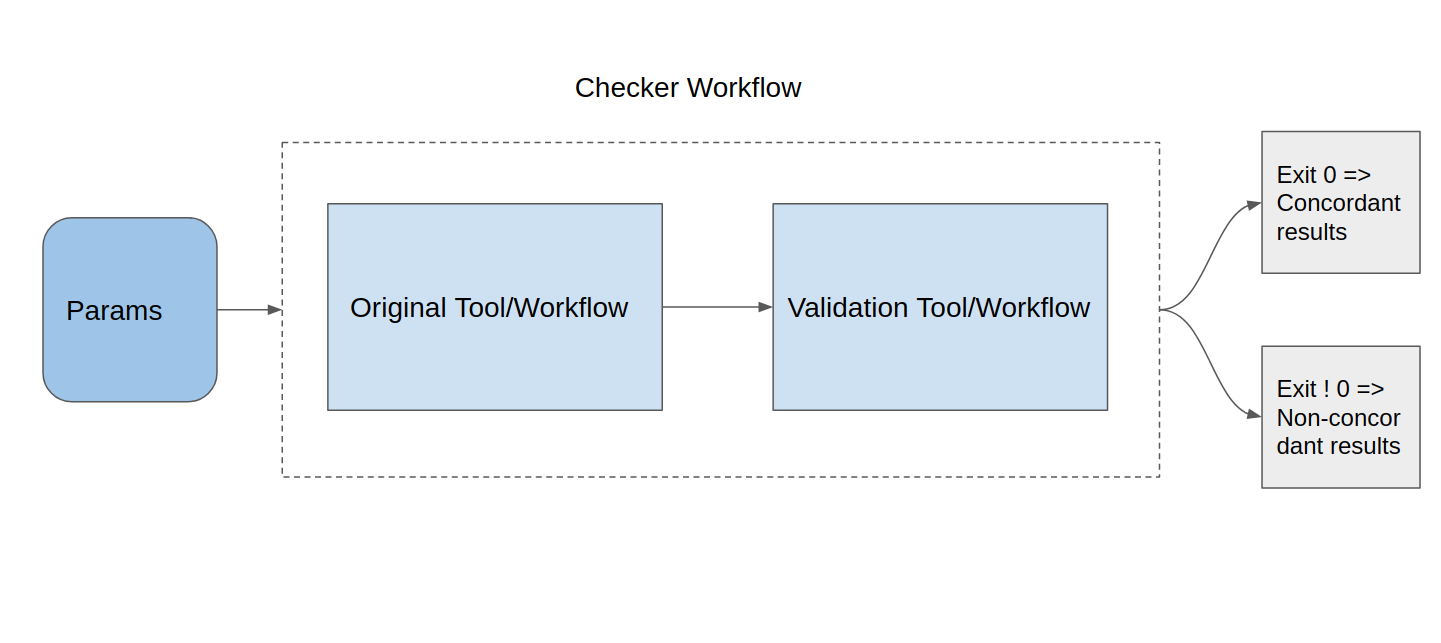
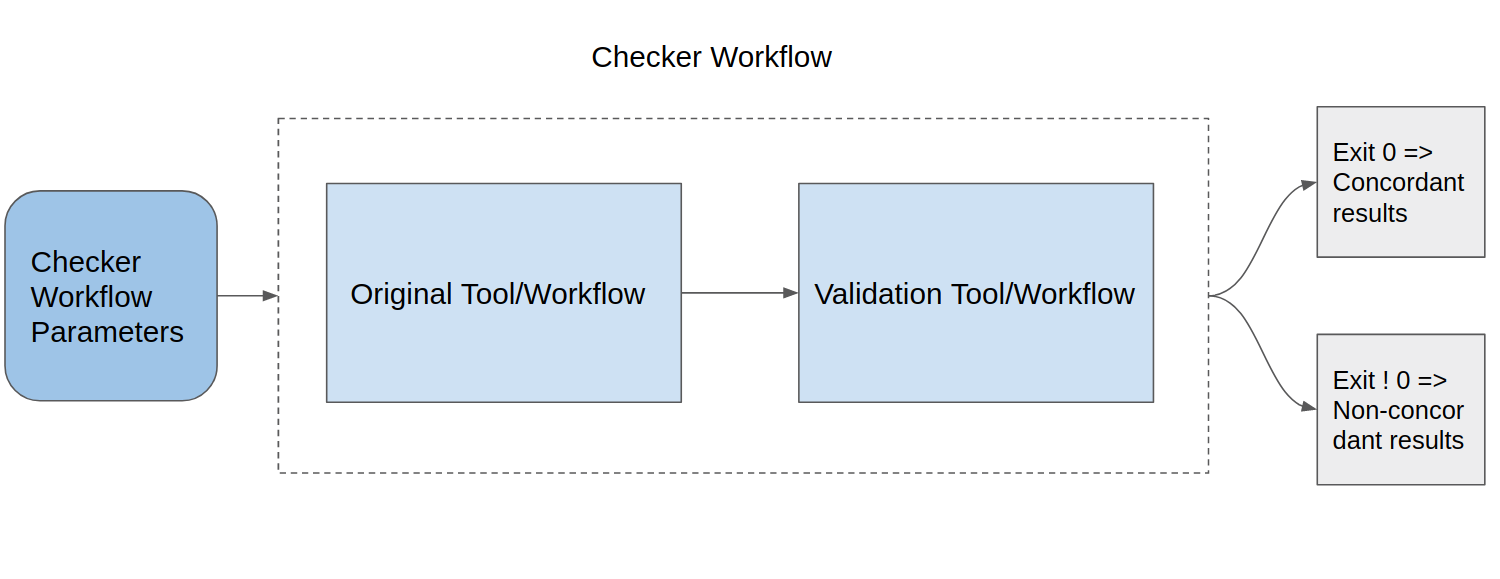
changes to checker workflow tutorial

diff --git a/_docs/checker-workflows.md b/_docs/checker-workflows.md
@@ -30,11 +30,9 @@ The relevant tools and workflows can be found in the following Git repository:
 [https://github.com/dockstore-testing/md5sum-checker](https://github.com/dockstore-testing/md5sum-checker)
 
 #### Quick overview of structure
-One point of confusion is that a checker workflow contains a validation tool/workflow. The validation tool/workflow is what does the bulk of the validation. It is responsible for ensuring that the results of the original entry match expected results. The checker workflow refers to the workflow that connects the original entry with the validation tool/workflow, so that it can be run as one workflow.
+Like regular workflows, a checker workflow can describe an example input from an input parameter file. The checker workflow can either use the input parameter file for the original entry, or it can define its own. The second case is useful when the validation tool/workflow has some extra parameters not required by the original entry.
 
-Also like regular workflows, a checker workflow can take input from an input parameter file. The checker workflow can either use the input parameter file for the original entry, or it can define its own. The second case is useful when the validation tool/workflow has some extra parameters not required by the original entry.
-
-For our example the second case is used. The parent tool has the input parameter file [/md5sum-input-cwl.json](https://github.com/dockstore-testing/md5sum-checker/blob/master/md5sum/md5sum-input-cwl.json)
+For our example the second case is used. The original tool has the input parameter file [/md5sum-input-cwl.json](https://github.com/dockstore-testing/md5sum-checker/blob/master/md5sum/md5sum-input-cwl.json). This is the file that runs a particular example with the original tool.
 ```
 {
   "input_file": {
@@ -44,7 +42,7 @@ For our example the second case is used. The parent tool has the input parameter
 }
 ```
 
-The checker workflow has the input parameter file [/checker-input-cwl.json](https://github.com/dockstore-testing/md5sum-checker/blob/master/checker-input-cwl.json)
+The checker workflow has the input parameter file [/checker-input-cwl.json](https://github.com/dockstore-testing/md5sum-checker/blob/master/checker-input-cwl.json). This is the file that we would pass to the checker workflow to ensure that our original tool is working properly when we run it with the input file mentioned above. Again, in some cases this file could be the same as the one for the original tool parameter file, though not in this case.
 ```
 {
   "input_file": {
@@ -55,7 +53,10 @@ The checker workflow has the input parameter file [/checker-input-cwl.json](http
 }
 ```
 
-Notice that the checker parameter file has the same content as the parent parameter file, in addition to having a checker specific parameter.
+Notice that the checker parameter file has the same content as the original parameter file, in addition to having a checker specific parameter.
+
+One point of confusion is that a checker workflow contains a validation tool/workflow. The validation tool/workflow is what does the bulk of the validation. It is responsible for ensuring that the results of the original entry match expected results. The checker workflow refers to the workflow that connects the original entry with the validation tool/workflow, so that it can be run as one workflow.
+
 
 #### Output of checker workflow
 To ensure that checking a checker workflow's output can be automated, it is important that the checker workflow produce consistent exit codes. We require using an exit code of 0 for success and an exit code of not 0 for failures.
@@ -65,7 +66,7 @@ We also recommend producing the following two output files containing the stdout
 * log.stderr
 
 #### Note on CLI usage
-For existing dockstore commands (tools and workflows), entry refers to the path of a specific tool or workflow. For checker workflows, entry refers to the path of the parent entry. It does not refer to the checker workflow's path.
+For existing dockstore commands (tools and workflows), entry refers to the path of a specific tool or workflow. For checker workflows, entry refers to the path of the original entry. It does not refer to the checker workflow's path.
 
 ## Adding a checker workflow
 Currently, you can add checker workflows to existing tools and workflows.
@@ -97,7 +98,7 @@ Using our example checker workflow, we would run the following:
 This will add the checker workflow defined by [/checker-workflow-wrapping-tool.cwl](https://github.com/dockstore-testing/md5sum-checker/blob/master/checker-workflow-wrapping-tool.cwl) to the entry `quay.io/agduncan94/my-md5sum`.
 
 The descriptor type will default to 'cwl' if none is provided.
-The default input parameter path will default to the default input parameter path of the parent entry.
+The default input parameter path will default to the default input parameter path of the original entry.
 
 ## Updating a checker workflow
 
@@ -150,7 +151,7 @@ We also need a local version of the file we are calculating the md5sum for:
 It can be useful to have all relevant files for a checker workflow locally. This can be done with the download feature.
 
 ### From the CLI
-The command for this is very simple. Again note that the entry is for the parent entry, and not the checker workflow.
+The command for this is very simple. Again note that the entry is for the original entry, and not the checker workflow.
 
 `dockstore checker download --entry quay.io/agduncan94/my-md5sum --version master`
 
@@ -158,4 +159,4 @@ This will download the descriptor and any secondary descriptors, maintaining the
 
 ## For Advanced Users
 You can interact with checker workflows using the TRS. See
-[Advanced Features](/docs/publisher-tutorials/advanced-features/) for more information.
+[Checker Workflows and the TRS](/docs/publisher-tutorials/checker-workflow-trs/) for more information.

diff --git a/_docs/advanced-features.md b/_docs/advanced-features.md
@@ -137,68 +137,3 @@ cromwell-version = 30.2
 ```
 
 You can test cromwell by git cloning git@github.com:briandoconnor/dockstore-tool-md5sum.git and using `dockstore tool launch --local-entry Dockstore.wdl --json test.wdl.json`
-
-## TRS With Checker Workflows
-You can interact with checker workflows using the TRS in the same way you interact with regular workflows.
-
-The Swagger UI for the the TRS endpoints can be found [here](https://dockstore.org:8443/static/swagger-ui/index.html#/GA4GH).
-
-For this section we will reference the tool and checker workflow mentioned in the [Checker workflows](/docs/publisher-tutorials/checker-workflows/) tutorial.
-
-### Distinguishing Between an Entry and a Checker Workflow
-We can use the TRS to find all entries on Dockstore, but how do we know which are checker workflows?
-
-Run the following command to retrieve all entries in Dockstore (limit to 1000):
-```
-curl -X GET "https://dockstore.org:8443/api/ga4gh/v2/tools?limit=1000" -H "accept: application/json"
-```
-
-There are two fields to look for in the results. The first is the `has_checker` field, which will tell you wether or not the entry has a checker workflow. If it does have a checker workflow, then the `checker_url` field contains a link to the checker workflow using the TRS. This is how we can determine if an entry has a checker, and also interact with the associated checker.
-
-Once we have the checker URL, we can start to interact with it like a regular workflow.
-
-### Retrieve the checker workflow
-Lets use the TRS to retrieve the checker workflow from the checker workflows tutorial mentioned above. The following command will retrieve the checker workflow object. Note that this is simply using the typical TRS endpoint
-to grab an entry.
-
-```
-curl -X GET "https://dockstore.org:8443/api/ga4gh/v2/tools/%23workflow%2Fgithub.com%2Fdockstore-testing%2Fmd5sum-checker%2F_cwl_checker" -H "accept: application/json"
-```
-
-### Retrieve descriptors
-If we want the primary descriptor for our checker workflow, we can use the following command:
-
-```
-curl -X GET "https://dockstore.org:8443/api/ga4gh/v2/tools/%23workflow%2Fgithub.com%2Fdockstore-testing%2Fmd5sum-checker%2F_cwl_checker/versions/master/CWL/descriptor" -H "accept: application/json"
-```
-
-Note that this command requires a version and descriptor type.
-
-If we want to grab the secondary descriptor files, we must first get a list of secondary files:
-
-```
-curl -X GET "https://dockstore.org:8443/api/ga4gh/v2/tools/%23workflow%2Fgithub.com%2Fdockstore-testing%2Fmd5sum-checker%2F_cwl_checker/versions/master/CWL/files" -H "accept: application/json"
-```
-
-This will return an array of files, including the primary descriptor, secondary descriptors, and test files.
-
-We can grab a descriptor file using the following command:
-
-```
-curl -X GET "https://dockstore.org:8443/api/ga4gh/v2/tools/%23workflow%2Fgithub.com%2Fdockstore-testing%2Fmd5sum-checker%2F_cwl_checker/versions/master/CWL/descriptor/checker%2Fmd5sum-checker.cwl" -H "accept: application/json"
-```
-
-### Retrieve the Test Parameter Files
-We can retrieve the test parameter files for a checker workflow using the following command:
-```
-curl -X GET "https://dockstore.org:8443/api/ga4gh/v2/tools/%23workflow%2Fgithub.com%2Fdockstore-testing%2Fmd5sum-checker%2F_cwl_checker/versions/master/CWL/tests" -H "accept: application/json"
-```
-
-Again, we must specify the version and descriptor type in the command.
-
-This will return an array of objects representing the test parameter files. Each object contains two fields, test and url.
-- **test**: the test file
-- **url**: the relative path
-
-### Other Usage
-This does not cover all of the uses of the TRS for checker workflows. You can see the full list of commands  [here](https://dockstore.org:8443/static/swagger-ui/index.html#/GA4GH). Note that any call that works for a normal tool or workflow will also work with a checker workflow.

diff --git a/_docs/checker-workflow-trs.md b/_docs/checker-workflow-trs.md
@@ -1,0 +1,68 @@
+---
+title: Checker Workflows and the TRS
+permalink: /docs/publisher-tutorials/checker-workflow-trs/
+---
+# TRS With Checker Workflows
+You can interact with checker workflows using the TRS in the same way you interact with regular workflows.
+
+The Swagger UI for the the TRS endpoints can be found [here](https://dockstore.org:8443/static/swagger-ui/index.html#/GA4GH).
+
+For this section we will reference the tool and checker workflow mentioned in the [Checker workflows](/docs/publisher-tutorials/checker-workflows/) tutorial.
+
+### Distinguishing Between an Entry and a Checker Workflow
+We can use the TRS to find all entries on Dockstore, but how do we know which are checker workflows?
+
+Run the following command to retrieve all entries in Dockstore (limit to 1000):
+```
+curl -X GET "https://dockstore.org:8443/api/ga4gh/v2/tools?limit=1000" -H "accept: application/json"
+```
+
+There are two fields to look for in the results. The first is the `has_checker` field, which will tell you wether or not the entry has a checker workflow. If it does have a checker workflow, then the `checker_url` field contains a link to the checker workflow using the TRS. This is how we can determine if an entry has a checker, and also interact with the associated checker.
+
+Once we have the checker URL, we can start to interact with it like a regular workflow.
+
+### Retrieve the checker workflow
+Lets use the TRS to retrieve the checker workflow from the checker workflows tutorial mentioned above. The following command will retrieve the checker workflow object. Note that this is simply using the typical TRS endpoint
+to grab an entry.
+
+```
+curl -X GET "https://dockstore.org:8443/api/ga4gh/v2/tools/%23workflow%2Fgithub.com%2Fdockstore-testing%2Fmd5sum-checker%2F_cwl_checker" -H "accept: application/json"
+```
+
+### Retrieve descriptors
+If we want the primary descriptor for our checker workflow, we can use the following command:
+
+```
+curl -X GET "https://dockstore.org:8443/api/ga4gh/v2/tools/%23workflow%2Fgithub.com%2Fdockstore-testing%2Fmd5sum-checker%2F_cwl_checker/versions/master/CWL/descriptor" -H "accept: application/json"
+```
+
+Note that this command requires a version and descriptor type.
+
+If we want to grab the secondary descriptor files, we must first get a list of secondary files:
+
+```
+curl -X GET "https://dockstore.org:8443/api/ga4gh/v2/tools/%23workflow%2Fgithub.com%2Fdockstore-testing%2Fmd5sum-checker%2F_cwl_checker/versions/master/CWL/files" -H "accept: application/json"
+```
+
+This will return an array of files, including the primary descriptor, secondary descriptors, and test files.
+
+We can grab a descriptor file using the following command:
+
+```
+curl -X GET "https://dockstore.org:8443/api/ga4gh/v2/tools/%23workflow%2Fgithub.com%2Fdockstore-testing%2Fmd5sum-checker%2F_cwl_checker/versions/master/CWL/descriptor/checker%2Fmd5sum-checker.cwl" -H "accept: application/json"
+```
+
+### Retrieve the Test Parameter Files
+We can retrieve the test parameter files for a checker workflow using the following command:
+```
+curl -X GET "https://dockstore.org:8443/api/ga4gh/v2/tools/%23workflow%2Fgithub.com%2Fdockstore-testing%2Fmd5sum-checker%2F_cwl_checker/versions/master/CWL/tests" -H "accept: application/json"
+```
+
+Again, we must specify the version and descriptor type in the command.
+
+This will return an array of objects representing the test parameter files. Each object contains two fields, test and url.
+- **test**: the test file
+- **url**: the relative path
+
+### Other Usage
+This does not cover all of the uses of the TRS for checker workflows. You can see the full list of commands  [here](https://dockstore.org:8443/static/swagger-ui/index.html#/GA4GH). Note that any call that works for a normal tool or workflow will also work with a checker workflow.
